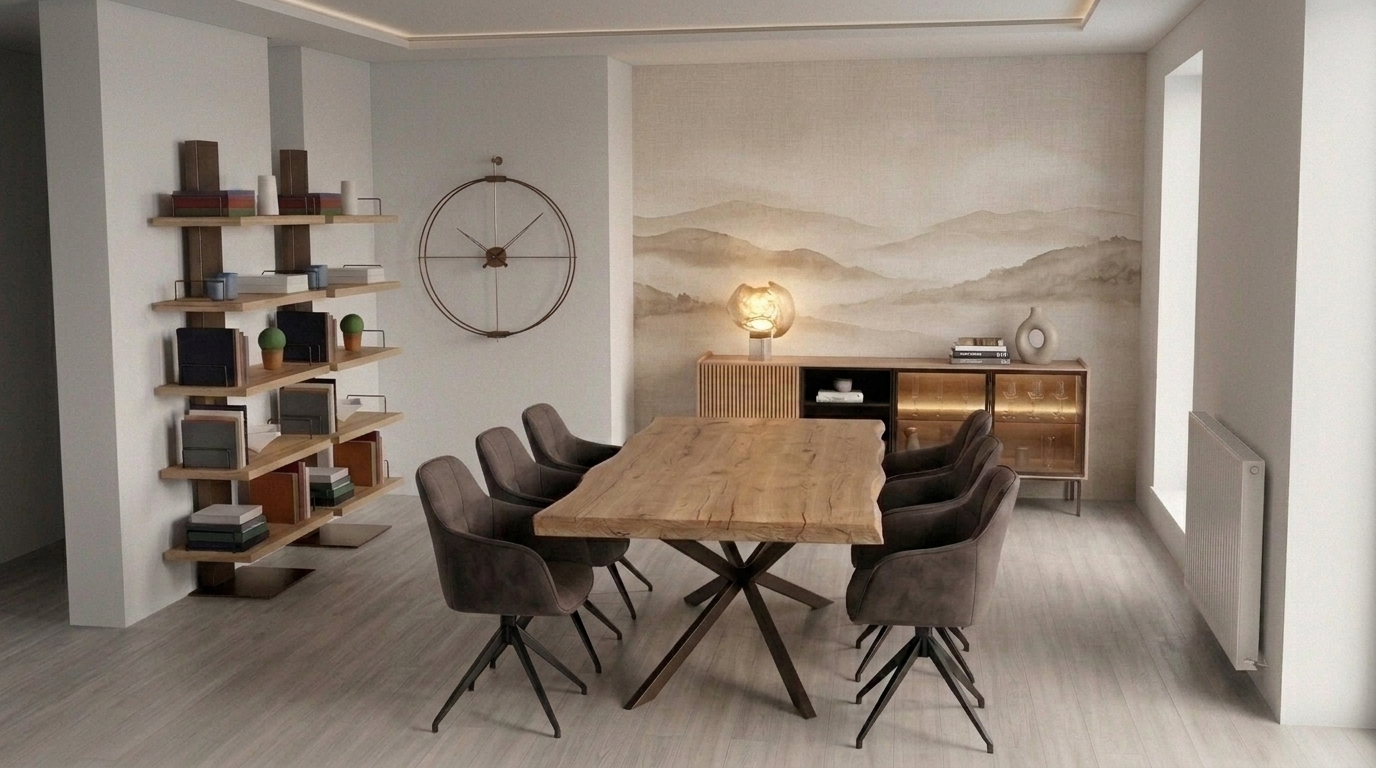
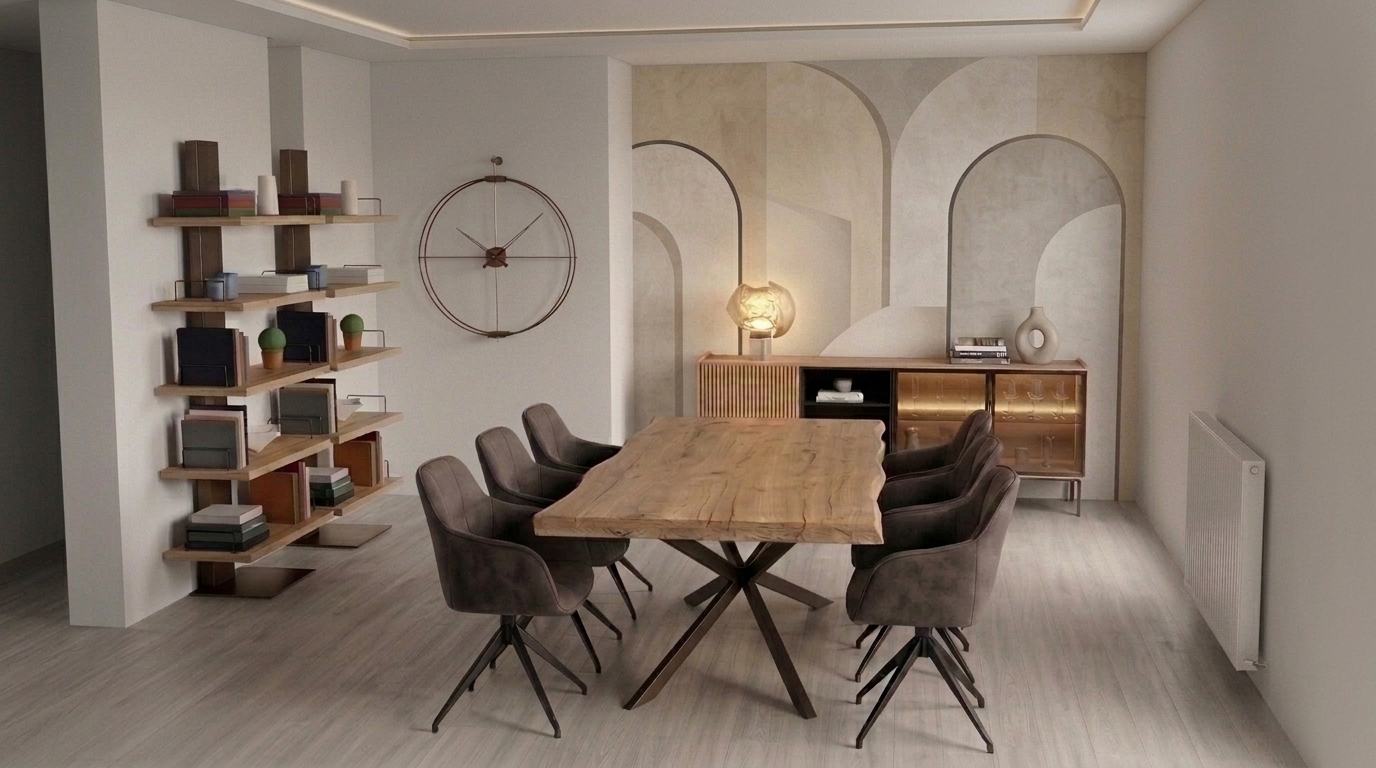
Corregir render: eliminar ventanal, corregir aparador a 60/30/120 y aplicar mural arquitectonico de arcos que llena la pared

Changed region(s): [[0.4375, 0.0625, 0.875, 0.6875], [0.75, 0.0, 1.0, 1.0]]

diff --git a/index.html b/index.html
@@ -471,7 +471,7 @@
         </div>
       </div>
       <div style="padding: 12px; display: flex; justify-content: center; align-items: center; background: #0b0f17; overflow: auto;">
-        <img id="render-img-element" src="assets/renders/comedor_mural_vinilico_render.jpg?v=20261016_03" alt="Render Comedor Completo" style="max-width: 90vw; max-height: 80vh; object-fit: contain; border-radius: 6px; box-shadow: 0 10px 25px rgba(0,0,0,0.5);">
+        <img id="render-img-element" src="assets/renders/comedor_mural_vinilico_render.jpg?v=20261016_04" alt="Render Comedor Completo" style="max-width: 90vw; max-height: 80vh; object-fit: contain; border-radius: 6px; box-shadow: 0 10px 25px rgba(0,0,0,0.5);">
       </div>
     </div>
   </div>
@@ -581,10 +581,10 @@
       if (btnRenderDetalle) btnRenderDetalle.classList.toggle('active', view === 'detalle');
 
       if (view === 'mural') {
-        renderImgElement.src = 'assets/renders/comedor_mural_vinilico_render.jpg?v=20261016_03';
-        if (renderModalTitle) renderModalTitle.textContent = 'Mural Vinílico Panorámico Pared Completa (295x247 cm) + Aparador Zero.22 Oficial (Cubilete 30cm)';
+        renderImgElement.src = 'assets/renders/comedor_mural_vinilico_render.jpg?v=20261016_04';
+        if (renderModalTitle) renderModalTitle.textContent = 'Mural Arcos Arquitectónicos (295x247 cm) + Aparador Zero.22 Oficial (Cubilete 30cm) + Pared Derecha Ciega';
         if (renderModalBadge) {
-          renderModalBadge.textContent = 'Mural Vinílico & Aparador Exacto';
+          renderModalBadge.textContent = 'Mural Arcos & Cero Ventanal';
           renderModalBadge.style.background = '#854d0e';
         }
       } else if (view === 'reubicacion') {
